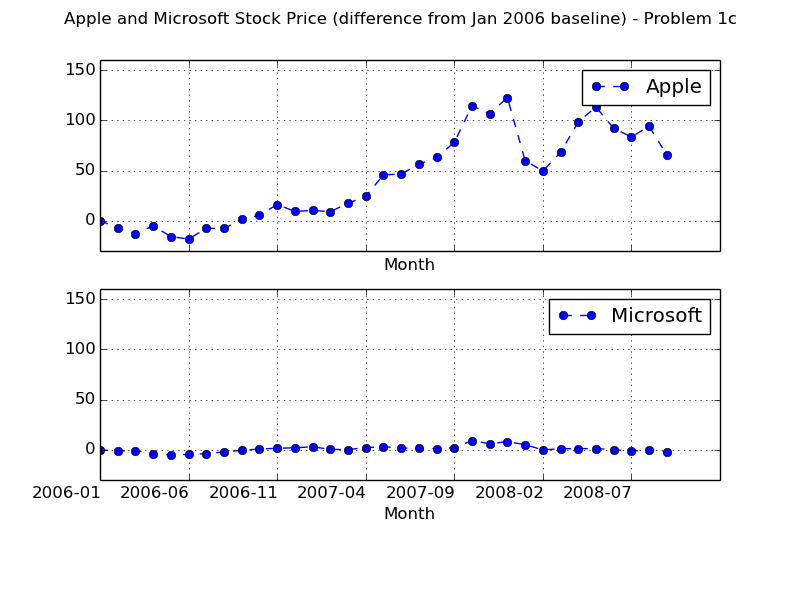
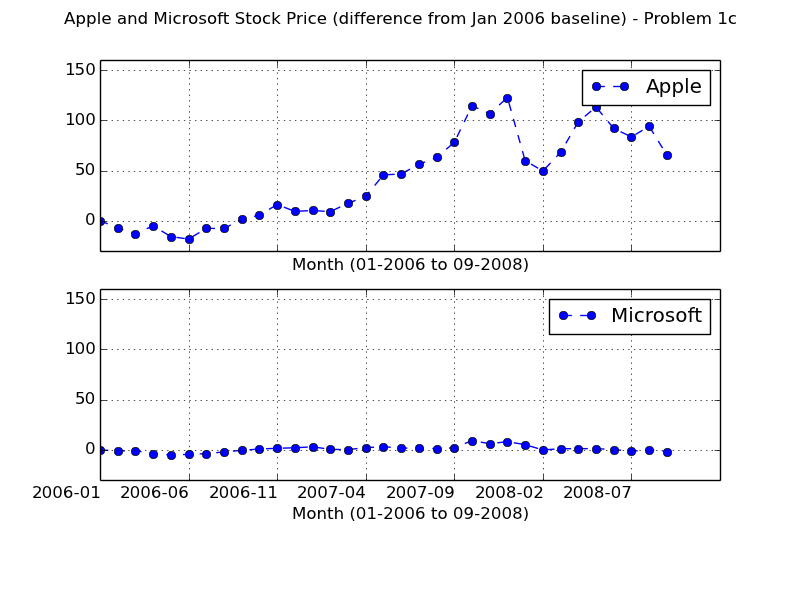
changed x label to include data range and updated pngs

Changed region(s): [[0.3438, 0.84, 0.6562, 0.87], [0.3438, 0.42, 0.6562, 0.45]]

diff --git a/rad416/Assignment5/problem1.py b/rad416/Assignment5/problem1.py
@@ -6,20 +6,29 @@ stocks['appleDelta'] = stocks['apple'].map(lambda x: x-75.51) # apply map to sub
 stocks['microsoftDelta'] = stocks['microsoft'].map(lambda x: x-27.06)
 
 # generate plot for problem 1a
+# The plot uses a connected symbol to make clear these are discrete measurements rather than continuous measurements
+# Grid lines are used to make the graph clear to read.
 stocksApple = stocks[['month','apple']]
-stocksApple.columns = ['Month', 'Apple']
-appleplot = stocksApple.set_index('Month').sort_index().plot(style='o--',ylim=[40,220],title="Apple Stock Price - Problem 1a",legend=False)
+stocksApple.columns = ['Month (01-2006 to 09-2008)', 'Apple']
+appleplot = stocksApple.set_index('Month (01-2006 to 09-2008)').sort_index().plot(style='o--',ylim=[40,220],title="Apple Stock Price - Problem 1a",legend=False)
 plt.savefig('Problem_1a.png')
 
 # generate plot for problem 1b
 stocksDelta = stocks[['month','appleDelta', 'microsoftDelta']]
-stocksDelta.columns = ['Month','Apple','Microsoft']
-deltaPlot = stocksDelta.set_index('Month').sort_index().plot(style='o--',title="Apple and Microsoft Stock Price (diff from Jan 2006 baseline) - Problem 1b")
+stocksDelta.columns = ['Month (01-2006 to 09-2008)','Apple','Microsoft']
+deltaPlot = stocksDelta.set_index('Month (01-2006 to 09-2008)').sort_index().plot(style='o--',title="Apple and Microsoft Stock Price (diff from Jan 2006 baseline) - Problem 1b")
 plt.axhline(y=0.0, color='black')
+# Two connected symbol graphs of different colors show the two stock prices. A horizontal line at x=0 makes clear
+# the zero mark.  This clearly shows the price difference over the baseline price in real dollar terms.  
+# Change as some percentage of the initial stock price might be more accurate, as well as an indication whether these
+# are inflation adjusted dollars.
 plt.savefig('Problem_1b.png')
 
 # generate plot for problem 1c
 stocksDelta = stocks[['month','appleDelta', 'microsoftDelta']]
-stocksDelta.columns = ['Month','Apple','Microsoft']
-deltaPlot = stocksDelta.set_index('Month').sort_index().plot(style='o--',ylim=[-30,160],subplots=True,title="Apple and Microsoft Stock Price (difference from Jan 2006 baseline) - Problem 1c")
+stocksDelta.columns = ['Month (01-2006 to 09-2008)','Apple','Microsoft']
+deltaPlot = stocksDelta.set_index('Month (01-2006 to 09-2008)').sort_index().plot(style='o--',ylim=[-30,160],subplots=True,title="Apple and Microsoft Stock Price (difference from Jan 2006 baseline) - Problem 1c")
+#juxataposition doesn't allow for easy comparison of the stock prices.  This wouldn't work well if the intention 
+# is to make that type of comparison
 plt.savefig('Problem_1c.png')
+
